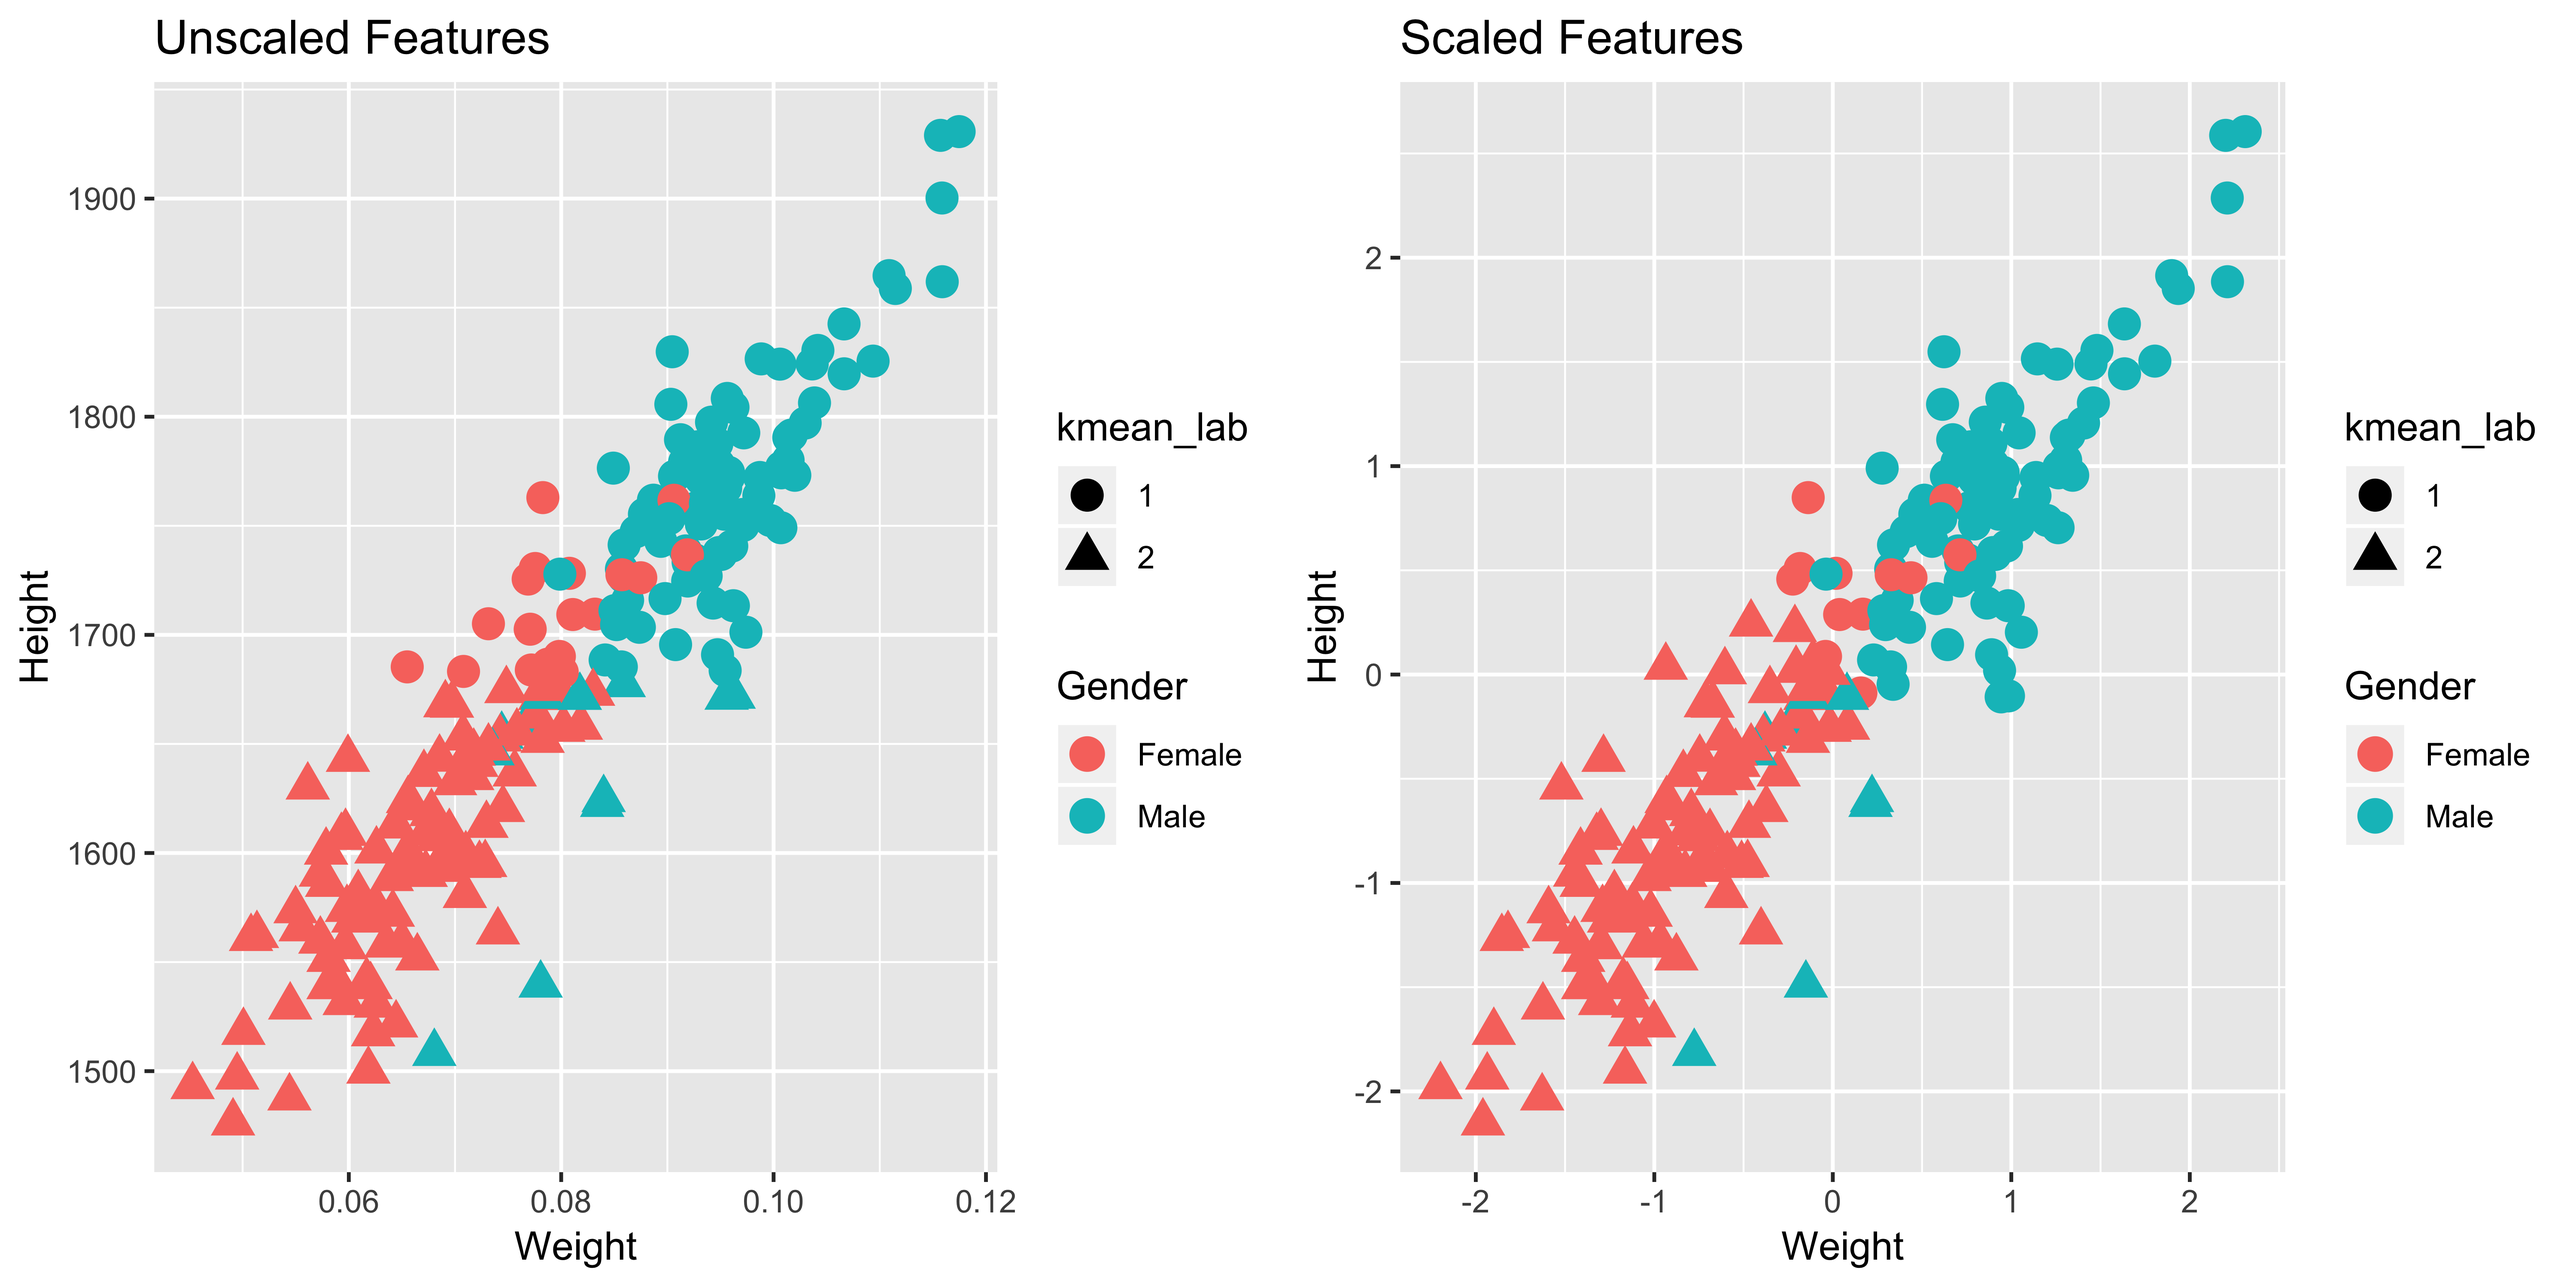
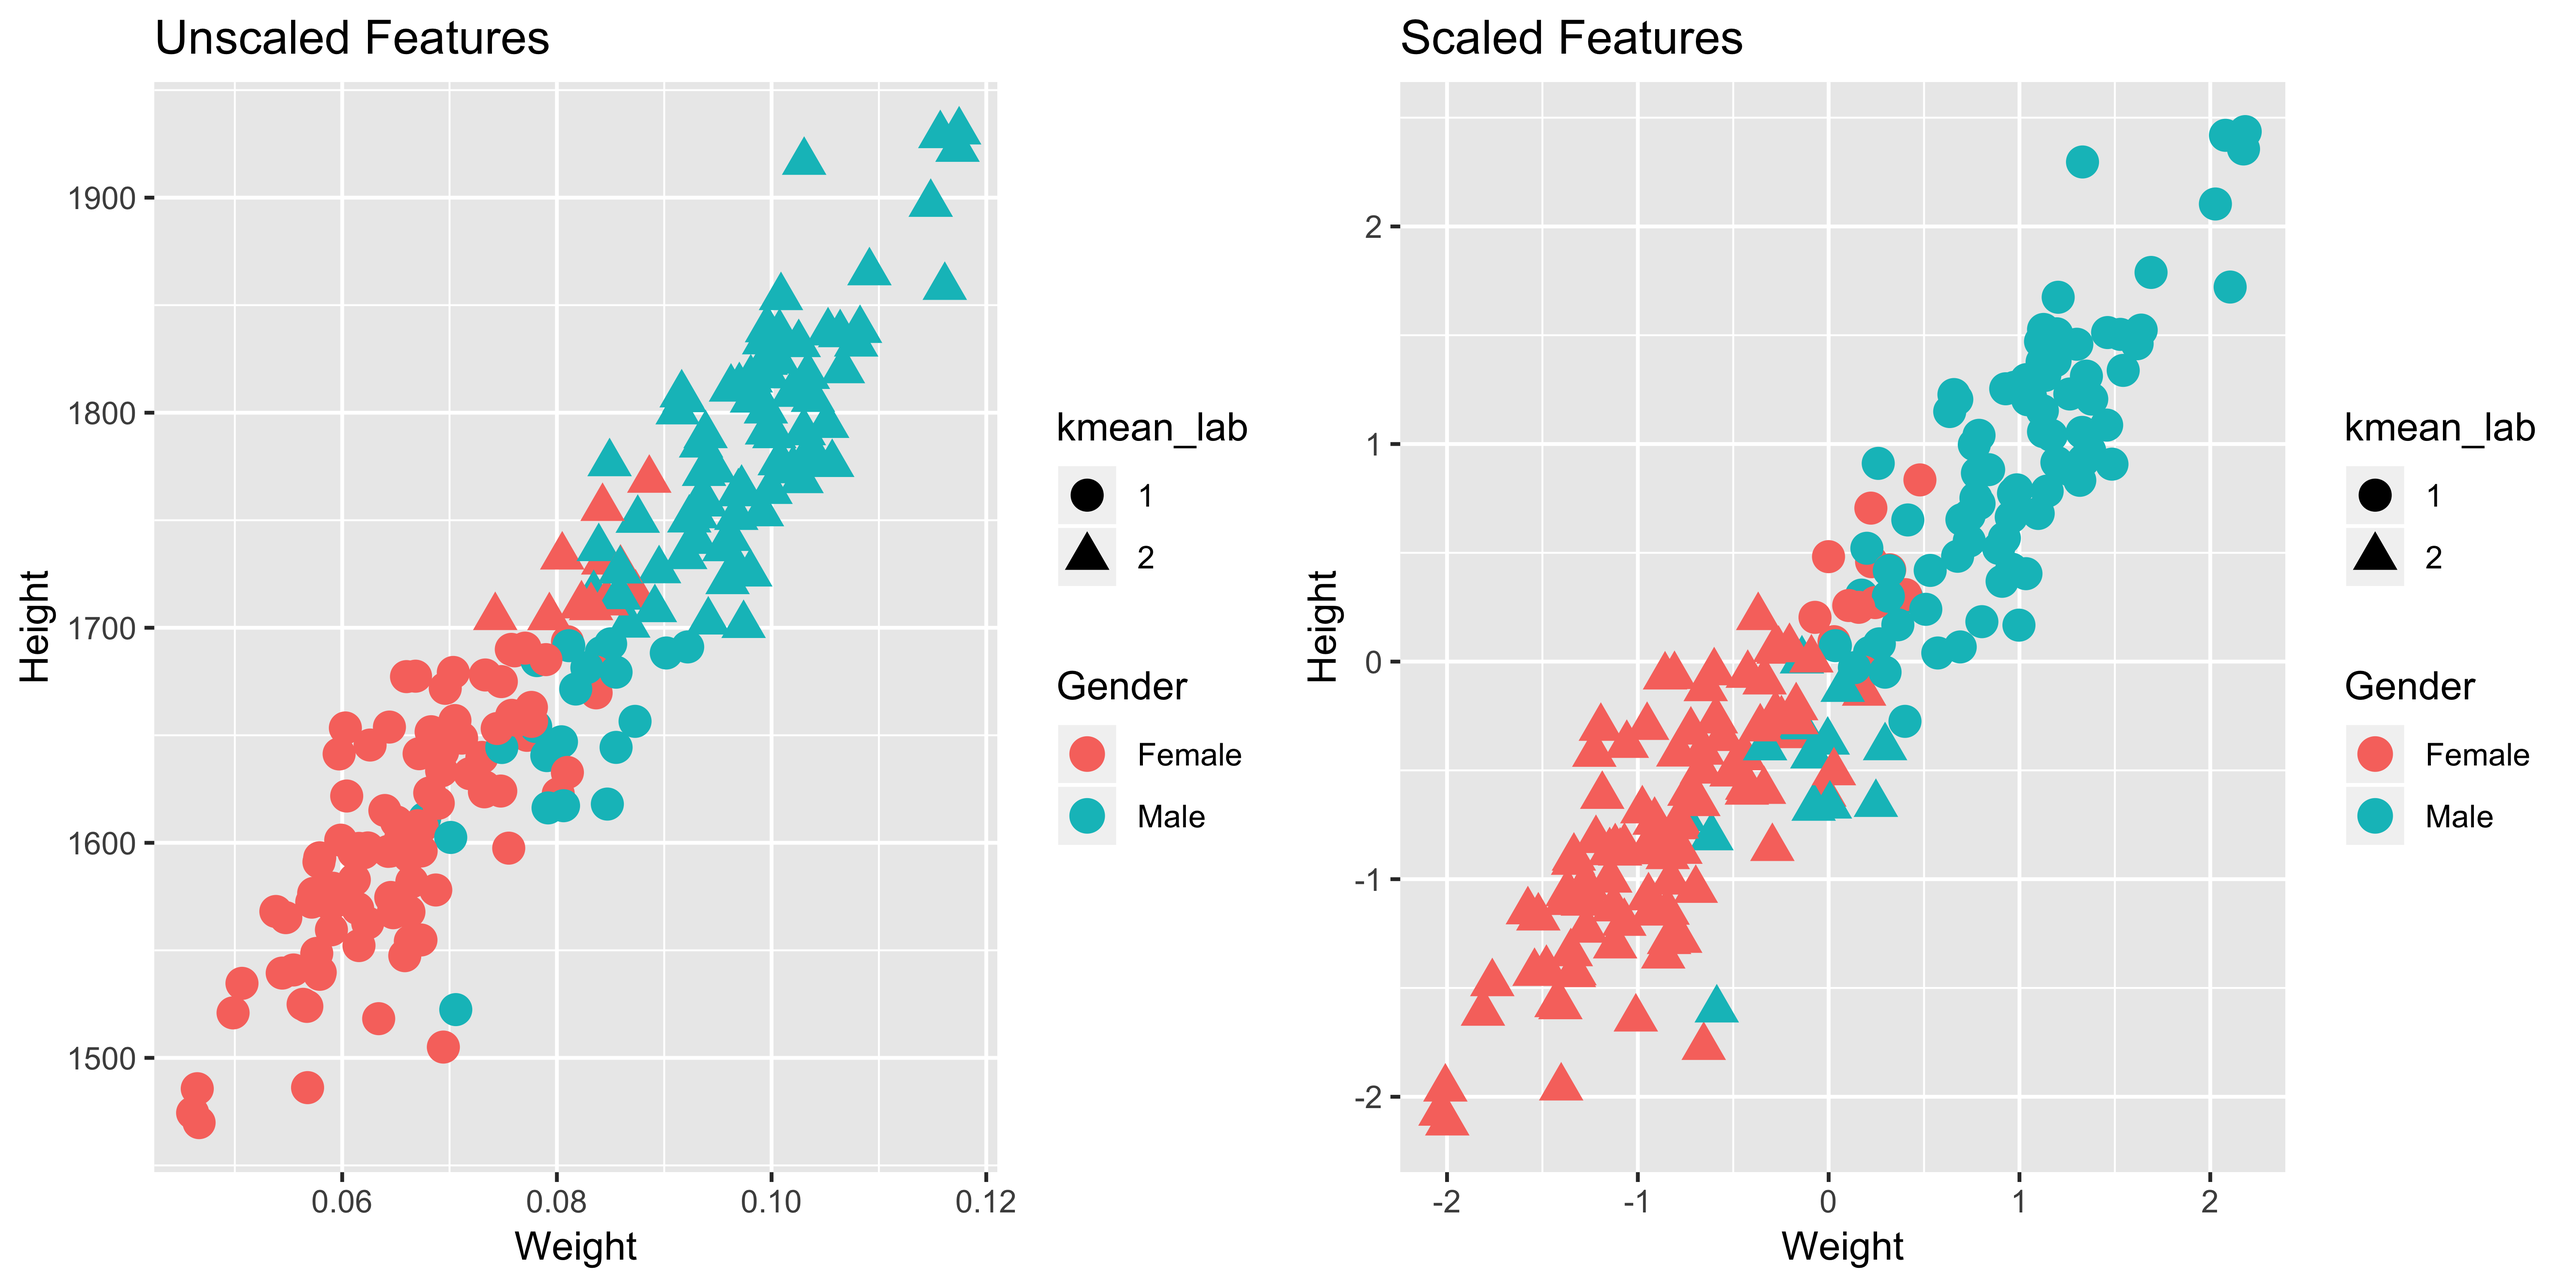
updating kmeans

diff --git a/css/projects.css b/css/projects.css
@@ -254,6 +254,10 @@ thead {
 }
 
 
+thead tr:nth-child(2) th{
+  color:var(--main-accent-color);
+}
+
  /*making table edges rouner*/
 table thead tr:first-child th:first-child{
   border-top-left-radius:10px;

diff --git a/projects/kmeans_intro/preprocess_before_sub.py b/projects/kmeans_intro/preprocess_before_sub.py
@@ -38,7 +38,7 @@ print('Removing extra gif in middle of md ...')
 with open('index.md', "r") as f:
 	lines = f.readlines()
 
-rm_line = '![](images/unnamed-chunk-9-1.gif)<!-- -->' + '\n'
+rm_line = '![](images/scree-1.gif)<!-- -->' + '\n'
 with open('index.md', "w") as f:
 	for line in lines:
 		if line != rm_line:

diff --git a/projects/kmeans_intro/index.md b/projects/kmeans_intro/index.md
@@ -24,7 +24,7 @@ associated label or response \(Y\) and thus the aim is not for
 prediction, but rather to uncover new and perhaps interesting trends and
 subgroups within the data. Unsupervised learning is often used as part
 of <i>exploratory data analysis</i> and can aid in visualizations. The
-main goal of <i>K-Means</i> is to partition the observations into
+main goal of <i>K-Means</i> is to partition the observations into \(K\)
 distinct groups such that the observations in one group or cluster are
 as similar to each other as possible while also being as different as
 possible from the observations from other groups. So, how exactly is
@@ -42,15 +42,38 @@ Scale the data since Euclidian distances will be involved
 
 <li>
 
-Select number of clusters believed to exist in the data
+Select \(K\) number of clusters believed to exist in the data
 
 </li>
 
 <li>
 
+Randomly initialize the centroids
+
 </li>
 
 <li>
+
+Calculate distances between samples and each centroid
+
+</li>
+
+<li>
+
+Group the samples into the cluster which they are closest to
+
+</li>
+
+<li>
+
+Recalculate cluster centers based on these newly assigned samples
+
+</li>
+
+<li>
+
+Repeat from step 4 until cluster centers no longer shift (when samples
+no longer get reassigned to a different centroid)
 
 </li>
 
@@ -74,6 +97,8 @@ The location in the feature space for each of the cluster centroids
 </li>
 
 </ul>
+
+## The Algorithm
 
 This is the function the algorithm aims to minimize:
 $$\min_{C_1,...,C_K}\sum^{K}_{k=1}W(C_k)$$
@@ -312,6 +337,8 @@ distinct clusters\!
 Since in this case our labels are known, we can caclulate the confusion
 matrix for the prediction of this algorithm.
 
+## Selecting K
+
 Now… you might be wondering *how do I determine the number of
 clusters?\!* Well, there are multiple ways of doing so. In our case, we
 decided on three clusters because we knew ahead of time that there would
@@ -348,13 +375,12 @@ find_distances <- function(data, predicted_labs, centers){
   return(tot_sq_dist)  
 }
 
-km <- my_kmeans(no_labs, 4)
-predicted_labs <- km[[1]]
-centers <- km[[2]]
-find_distances(no_labs, predicted_labs, centers)
+# testing function ...
+# km <- my_kmeans(no_labs, 4)
+# predicted_labs <- km[[1]]
+# centers <- km[[2]]
+# find_distances(no_labs, predicted_labs, centers)
 ```
-
-    ## [1] 385.0495
 
 Great, now let’s see how we can use a scree plot to our advantage\!
 
@@ -407,17 +433,17 @@ animate(g, nframes =  num_clusters, fps = 1,
 ```
 
 
-|   Cluster \# Effect on Sq. Dist   |      Scree Plot       |
-| :-------------------------------: | :-------------------: |
-| ![](images/unnamed-chunk-9-1.gif) | ![](images/scree.png) |
+| Cluster \# Effect on Sq. Dist |      Scree Plot       |
+| :---------------------------: | :-------------------: |
+|    ![](images/scree-1.gif)    | ![](images/scree.png) |
 
-**Important Note:** It is very important to scale or normalize the data
-before running *K-Means* algorithm if the features have different units.
-Let me demonstrate why this is so. Here is a contrived example of height
-and weights along with gender that I obtained from the web. We have
-height in *mm* and weight in *tons* (for the sake of demonstration). We
-know beforehand that there are two groups - males and females, so we’ll
-set number of clusters to 2.
+**Important Note:** <br> It is very important to scale or normalize the
+data before running *K-Means* algorithm if the features have different
+units. Let me demonstrate why this is so. Here is a contrived example of
+height and weights along with gender that I obtained from the web. We
+have height in *mm* and weight in *tons* (for the sake of
+demonstration). We know beforehand that there are two groups - males and
+females, so we’ll set number of clusters to 2.
 
 ``` r
 library(knitr)
@@ -508,13 +534,13 @@ Female
 
 <td style="text-align:center;">
 
-19
+93
 
 </td>
 
 <td style="text-align:left;">
 
-84
+11
 
 </td>
 
@@ -530,13 +556,13 @@ Male
 
 <td style="text-align:center;">
 
-84
+21
 
 </td>
 
 <td style="text-align:left;">
 
-13
+75
 
 </td>
 
@@ -596,7 +622,7 @@ Female
 
 <td style="text-align:left;">
 
-91
+92
 
 </td>
 
@@ -612,13 +638,13 @@ Male
 
 <td style="text-align:center;">
 
-87
+83
 
 </td>
 
 <td style="text-align:left;">
 
-10
+13
 
 </td>
 
@@ -634,3 +660,5 @@ Male
 
 Now, since this is a *boring* example, let’s use a more interesting
 dataset\!
+
+## Application …
